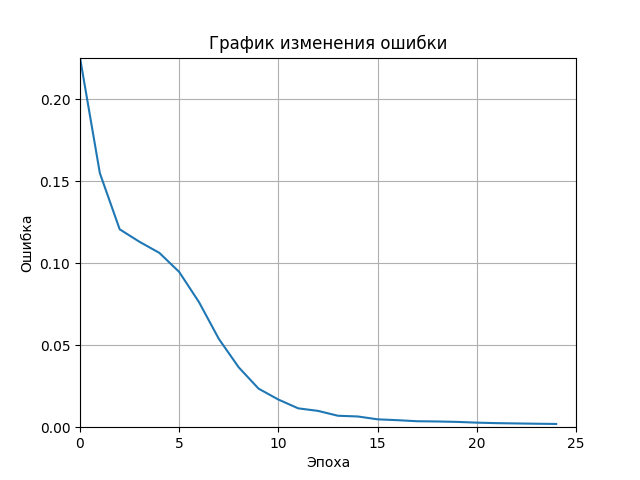
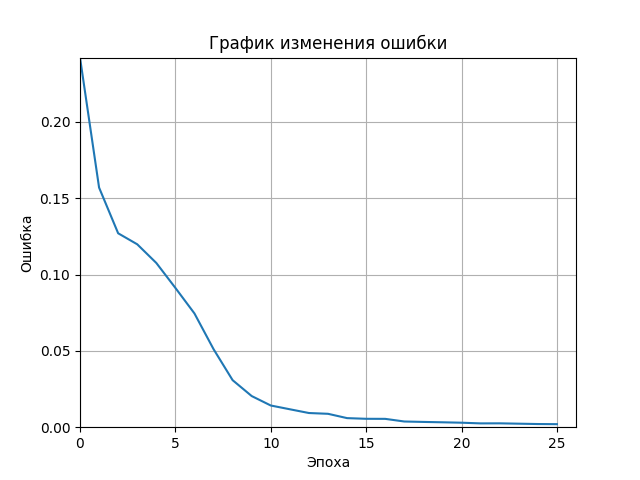
Косметические исправления.

diff --git a/NeuralNet/src/Include/Input.hpp b/NeuralNet/src/Include/Input.hpp
@@ -4,6 +4,6 @@
 
 Net::fmatrix weights =
 {
-	{0.0866762, -0.00792785, -0.0975798, -0.0785434, 0.0160742, -0.0477219, -0.0511323, 0.0902031, 0.0732728, -0.0513772, 0.0865228, -0.0515019, -0.0671272, -0.0505245, -0.03316, 0.0875438, -0.0255866, -0.00457727, 0.0251436, 0.138647, 0.0476982, -0.0274717, 0.111498, -0.0635629, -0.0490845, 0.0461052, 0.0240554, -0.0597974, 0.00565295, 0.0991803, 0.0651181, 0.0451909, -0.00830246, 0.0953912, -0.0143226, 0.022315, -0.00720639, 0.0811833, 0.0145478, 0.0789655, 0.104592, 0.0335671, 0.0293116, 0.0521393, 0.0202352, 0.00277552, -0.0537189, -0.0854954, 0.0201207, -0.00382206, 0.0109879, 0.0830101, 0.064561, -0.0787919, 0.0825191, 0.0934809, 0.0856944, -0.0493944, -0.0398271, -0.0754562, -0.0422659, 0.0502075, 0.0213038, 0.0357727, -0.0506139, 0.0799693, -0.0670098, -0.00721193, 0.116596, -0.045856, -0.00376268, -0.0820758, 0.0576883, -0.0368344, 0.0679203, 0.0801333, 0.012721, 0.055573, 0.0256795, 0.0409697, 0.056959, 0.0268674, 0.0796875, 0.0493065, -0.0447279, 0.0729896, -0.083911, -0.0589574, -0.0485805, 0.0105328, 0.0375815, -0.0610947, 0.0258591, 0.0594313, 0.00804859, -0.0473766, -0.0346565, 0.0932167, 0.116688, 0.0295391, 0.0466345, 0.0622039, 0.0224272, -0.0247162, -0.0665249, 0.0755896, -0.0323697, 0.0615843, -0.0749183, -0.00907565, 0.0507233, -0.0267185, -0.083273, -0.0344248, 0.10249, -0.0197111, -0.0819625, 0.0132332, -0.0441817, -0.0236327, 0.0523245, -0.0697749, 0.0188519, -0.0841022, 0.0791236, 0.0461455, 0.100218, -0.0478836, 0.114456, 0.00785827, 0.0162361, 0.0861071, -0.0360857, 0.0840756, 0.0782947, 0.060194, 0.00863855, -0.0179264, -0.0570995, -0.099412, -0.00849955, -0.0182204, 0.0963028, 0.0507728, -0.00210707, -0.00969862, 0.0857039, 0.00579364, -0.0529255, 0.00955859, 0.0161255, -0.0624801, 0.0167603, -0.00942724, 0.0642182, 0.0147564, 0.0449116, -0.072375, -0.0908131, -0.0548277, 0.0394569, 0.200323, 0.245159, 0.0595522, -0.00492004, 0.310799, 0.0839039, -0.129397, -0.358275, -0.242682, -0.314606, 0.285241, 0.336216, -0.780856, -0.292478, -0.209469, -0.234239, 0.109813, -0.18192, -0.640744, -0.0312026, 0.355739, 0.0821964, 0.037466, -0.232616, 0.361776, 0.0250198, -0.0130411, -0.115913, -0.38537, -0.32885, 0.397267, 0.138317, 0.222736, -0.33541, -0.299616, 0.060136, 0.27347, -0.110616, 0.097282, 0.0412095, -0.0972402, -0.124272, 0.0296733, -0.0624154, 0.0441652, -0.180363, -0.0943999, 0.0725166, -0.106188, -0.0226847, 0.0806647, -0.0810194, 0.0324514, 0.0189664, 0.112137, 0.0201486, -0.000465235, -0.126545, 0.0680508, -0.133577, 0.377623, 0.186577, 0.0722652, -0.165512, 0.347777, 0.0671499, -0.104445, -0.125526, -0.305234, -0.309068, 0.421405, 0.0446779, 0.263639, -0.321436, -0.319335, -0.00294748, 0.233784, -0.162893, 0.130506, -0.0159853, 0.0959856, 0.315265, -0.01483, 0.0538099, 0.119669, 0.0744082, -0.193736, -0.284994, -0.113708, -0.154729, 0.225343, 0.0746168, -0.56286, -0.260469, -0.193892, -0.158052, -0.0138222, -0.217488, -0.450156, 0.0433775, -0.0139982, -0.116579, -0.000670475, -0.0624342, -0.0089378, 0.0271549, -0.0665824, 0.058576, 0.0599151, -0.0523221, -0.0832575, -0.070407, 0.0482867, 0.0144472, -0.0624573, 0.112721, -0.0612021, 0.0504372, 0.208765, -0.0808062, 0.097698, 0.0466683, -0.0745585, 0.0632179, -0.052584, 0.0521898, 0.0168246, -0.0441655, -0.101137, 0.0332857, 0.0610734, -0.0283959, -0.0142506, -0.0188386, 0.0122897, -0.00513667, -0.0267948, 0.0463119, -0.049509, 0.0143905, 0.34652, 0.145474, 0.107855, -0.124081, 0.466734, -0.0151589, -0.192878, -0.19264, -0.419318, -0.31571, 0.554748, 0.104842, 0.134813, -0.237051, -0.413426, 0.130379, 0.204471, -0.204773, 0.00720854, -0.0103811, -0.307902, -0.30554, -0.234561, 0.272253, -0.446316, -0.103694, 0.0417102, 0.28718, 0.31367, 0.317484, -0.468452, -0.117955, -0.151594, 0.208796, 0.183265, -0.131849, -0.259221, -0.0533793, -0.14924, 0.0366489, 0.0631523, 0.0663916, 0.103864, -0.0351811, -0.0813283, 0.0819092, -0.0191263, 0.0592765, 0.0618519, 0.0750178, -0.0270211, 0.051832, 0.126197, 0.0764747, -0.0533364, 0.0117782, 0.0149116, -0.0727805, -0.00418814, -0.0571531, -0.338476, -0.126004, -0.0634394, 0.0728777, -0.349782, -0.0297775, -0.0258293, 0.317328, 0.158301, 0.180285, -0.245945, -0.0673536, -0.114239, 0.252295, 0.254014, -0.158578, -0.270307, -0.0549956, -0.137097, -0.11788, 0.254077, 0.0160952, 0.0396871, -0.121968, 0.396145, -0.130818, -0.0114062, -0.183111, -0.498797, -0.328383, 0.378602, -0.0748486, 0.395042, -0.099146, -0.345063, 0.0640081, 0.294254, -0.0454818, 0.231146, -0.0992704, 0.0994148, -0.0604865, 0.081409, 0.0666357, 0.0431528, -0.0274682, -0.0413835, 0.15488, 0.0103303, 0.0260499, -0.0155979, -0.0304333, 0.280484, -0.00535117, 0.0161112, 0.121853, 0.0432697, -0.0681849, 0.013949, 0.0717684, -0.0851833, -0.0548379, -0.0557472, -0.0527175, -0.107918, -0.0443159, -0.0570589, 0.0698844, 0.0141833, 0.0456437, -0.0829064, -0.00301583, 0.0563926, -0.034678, -0.0661171, 0.0364838, -0.0246512, 0.0559356, 0.00838378, -0.0296386, 0.024582, -0.0831316, -0.00318284, 0.0629536, 0.0325313, -0.0568268, -0.0568231, 0.0181012, -0.0868527, -0.0378821, 0.122524, -0.0466757, 0.189618, 0.0911208, 0.0197008, -0.0927871, 0.063142, -0.033046, 0.116082, 0.0161494, -0.0444934, -0.0587366, 0.0287475, 0.00324071, 0.0190304, -0.0851523, -0.0556648, 0.138106, -0.147097, -0.0106811, 0.0201928, -0.0780301, 0.189746, -0.0343848, -0.0369955, 0.0805828, 0.103816, -0.0465659, 0.328869, 0.0959667, 0.083556, -0.0930927, -0.0776776, 0.0162021, -0.0419935, -0.0442106, 0.0255548, 0.0984535, -0.0334093, -0.0296876, 0.0407326, 0.0718025, 0.122183, -0.0423188, 0.0993623, 0.0568657, 0.0786579, 0.105339, 0.0891558, -0.100526, 0.128562, 0.0557595, 0.11108, -0.0567332, 0.165228, 0.0146146, -0.0153412, -0.0238636, -0.00851064, -0.0090347, 0.109116, 0.100901, 0.0580763, -0.0355179, -0.0821143, -0.0840642, 0.0960814, -0.00199039, 0.0744989, 0.0166823, 0.000371878, 0.00628812, 0.0683477, 0.0691937, -0.074758, -0.0768097, -0.0482982, -0.0976552, -0.0272905, -0.094928, -4.29394e-05, 0.189285, 0.0270015, -0.0505899, -0.00631259, -0.0547526, -0.0677529, -0.0515933, -0.254701, -0.0494364, -0.0962193, 0.0190688, -0.0804981, 0.0328275, -0.000813957, -0.0849077, -0.0205391, 0.0303751, -0.0172585, -0.0236969, 0.0441721, 0.059234, -0.0538939, -0.045883, -0.0599186, -0.00689574, 0.0862057, 0.0024758, 0.0038345, 0.0832285, -0.280272, -0.241041, -0.181165, 0.269656, -0.484917, -0.175155, 0.0910164, 0.371059, 0.406219, 0.354156, -0.431547, 0.00766353, -0.134413, 0.27424, 0.399771, -0.197517, -0.306113, 0.004072, 0.00867412, 0.0199531, 0.225257, 0.0209763, 0.043999, -0.144991, 0.41976, 0.0150677, -0.12359, -0.134827, -0.292227, -0.196114, 0.451122, 0.0258337, 0.251425, -0.280148, -0.307493, 0.102482, 0.263046, -0.104795, 0.0212229, 0.0612849, 0.0166097, -0.00700271, 0.00601172, 0.0242269, -0.0135868, 0.0651669, -0.0195271, -0.0637281, -0.0546374, -0.116381, 0.0393089, 0.0952291, -0.0750392, 0.0791238, -0.0684623, 0.0883473, -0.046275, -0.078986, -0.0919576, -0.0688895, -0.0136018, -0.0132156, 0.0783353, 0.0804111, -0.0239043, 0.0768341, -0.114302, -0.132251, 0.0588675, -0.0111649, -0.0412612, 0.0492334, -0.240385, -0.029122, -0.00567707, 0.00800778, 0.000446689, -0.0381732, -0.167505, -0.00218123, -0.028044, 0.0532026, 0.0292836, 0.0605958, 0.0351693, -0.00317725, 0.0804416, 0.0306914, 0.0346778, 0.0121271, 0.103841, 0.0962415, 0.0675376, 0.0174673, -0.0114598, 0.028401, 0.0694978, 0.0906741, 0.0322072, -0.108385, 0.263928, 0.22585, 0.14027, -0.160481, 0.449451, 0.0717183, -0.150037, -0.168828, -0.418938, -0.445889, 0.559501, 0.145467, 0.249546, -0.339952, -0.412164, 0.114581, 0.156466, -0.0925762, 0.01798, 0.013498, -0.214736, -0.267301, -0.117466, 0.147852, -0.229929, -0.0765677, 0.0242622, 0.24991, 0.272304, 0.179639, -0.288247, -0.065683, -0.159524, 0.29826, 0.339676, -0.052415, -0.184851, 0.125013, -0.100547, 0.00359759, -0.279628, -0.262242, -0.187061, 0.227909, -0.233391, 0.0209457, 0.00632158, 0.213359, 0.3635, 0.169002, -0.350023, -0.0516415, -0.159296, 0.241094, 0.324786, -0.16566, -0.258804, 0.0416696, -0.0955344, 0.0114595, -0.0102559, 0.164928, -0.23007, 0.205724, -0.0725772, 0.117682, -0.148777, -0.14334, 0.126248, 0.0409057, -0.222946, 0.256628, -0.989321, 0.00450087, 0.0779769, -0.361581, -0.0967735, -0.0906457, -0.744176, 0.0513568, 0.0544713, -0.157035, -0.0955443, 0.0717355, 0.0627143, -0.122863, -0.0574966, -0.0396214, -0.0276628, -0.00141836, 0.0579931, 0.157395, -0.105629, -0.0883119, 0.0192949, -0.130873, -0.04574, -0.142888, -0.0422962, -0.000969142, -0.0819604, -0.229653, -0.0290105, -0.00811747, -0.134134, -0.206367, -0.0859013, 0.200654, -0.0140087, 0.00836773, -0.070393, -0.0773518, 0.18416, -0.0128996, 0.0439267, -0.0616415, -0.10911, -0.0706251, 0.0620099, -0.0764479, 0.0424315, -0.150828, -0.0698105, 0.0893981, 0.0102445, -0.0193152, 0.0154961, 0.0816621, 0.00638319, 0.0796076, -0.0798368, -0.0271105, 0.0580848, -0.0751012, -0.139857, -0.104469, -0.109328, -0.0719705, 0.16906, 0.0313416, -0.0674978, 0.246565, -0.160813, 0.191738, -0.0720227, -0.0252685, -0.227734, -0.150018, 0.0845691, -0.000400662, -0.159813, 0.359248, -1.00803, -0.173527, 0.0680214, -0.463127, -0.141467, -0.19908, -0.621725, -0.0572689, -0.162641, -0.153493, -0.0400367, 0.25607, -0.328826, -0.00412786, -0.0954528, 0.199211, 0.213603, 0.192696, -0.40451, -0.0377454, -0.230142, 0.192153, 0.248012, -0.149682, -0.149614, 0.0243793, -0.148292, 0.00618, -0.0141079, -0.0440853, -0.0311233, 0.0797928, -0.0890095, 0.00788859, 0.0770159, 0.127303, 0.122526, 0.0491964, 0.00801647, 0.0369554, 0.105538, -0.0240856, -0.00216016, -0.046672, -0.0748014, -0.0715021, 0.00149377, -0.0118226, 0.0950926, -0.0211248, 0.00929722, -0.00359979, 0.0242053, -0.0623014, 0.0579703, -0.0890606, -0.023883, -0.107247, 0.0697699, -0.0485313, 0.099436, 0.0514092, -0.0823213, -0.0615702, 0.0241285, -0.0025527, -0.132429, 0.0074238, -0.0911437, 0.00337884, -0.0267075, 0.00459531, 0.0561586, 0.00524737, 0.0355186, -0.0924041, 0.00344977, 0.0244889, -0.0513179, -0.0668138, 0.0479642, 0.00571541, -0.0111825, -0.0515851, -0.067993, -0.0149567, 0.0766428, 0.0101315, 0.0859245, -0.029065, 0.124598, -0.0279419, 0.0708129, -0.0935073, 0.0214813, -0.0997126, -0.00887444, -0.0387301, 0.00602779, 0.0872305, -0.0111459, -0.018855, -0.0340624, -0.0598534, -0.0373374, 0.112735, 0.0348348, 0.042864, 0.052759, -0.0457831, 0.00251609, 0.0799351, -0.0814976, 0.0514252, 0.0765519, 0.144912, -0.099681, 0.0106884, 0.0580893, -0.11888, 0.119296, -0.0494535, -0.00589789, -0.0295912, -0.0551733, -0.0818144, 0.185215, 0.0628457, 0.0296838, -0.146031, 0.0529039, -0.114435, -0.0634056, -0.108948, -0.00784633, 0.107435, -0.0400479, 0.12358, -0.0147707, -0.0870452, -0.0432346, 0.0695994, -0.0747104, -0.00227657, -0.0481893, 0.0467584, 0.0792283, -0.0152442, -0.101231, 0.0761193, 0.0482514, -0.0610503, 0.0439288, -0.0646631, -0.0698863, -0.0822562, 0.0258928, 0.0126443, -0.0306599, -0.0192794, -0.0320676, 0.0347701, -0.0366332, 0.0460992, -0.0665582, -0.0807431, 0.0594551},
-	{-0.97772, 0.150457, 0.188702, -0.984914, 1.31785, -0.964465, -0.950664, 1.08319, -0.936736, 0.431719, -0.612681, -0.370004, -1.95053, 0.436037, 0.898874, -0.306106, 1.50742, -1.7451, -1.04491, 0.658774, -0.155196, 0.640255, -1.09552, 0.194721, 0.393104, -1.93592, 1.02782, -0.875737, -1.15426, 1.24777, -0.615074, -1.17051, 1.10548, -0.530323, 1.70512, -1.72434, -1.98707, 1.54432, -0.0384024, 4.386, -3.87168, -0.66629, -0.155006, -1.38667, 0.976861, -0.732154, -1.1647, 1.37602, 1.54251, -1.51473, -0.402877, 0.116092, 0.26691, -0.907588, 0.562026, -1.05062, 0.236724, 3.46224, -3.55669, -0.157687}
+	{-0.111449f, -0.104262f, 0.0485458f, 0.105162f, -0.0144495f, -0.178764f, -0.00148932f, 0.012935f, -0.13439f, 0.0301735f, 0.0393255f, 0.0729633f, 0.0395205f, -0.0245326f, 0.00301001f, -0.0561424f, -0.102005f, -0.0471755f, 0.0417359f, 0.0799684f, 0.090487f, -0.0168627f, 0.0520941f, 0.00354638f, 0.0179132f, -0.213636f, -0.101025f, -0.0977599f, 0.0604194f, 0.0327205f, 0.083027f, 0.0918725f, -0.0968816f, -0.0313614f, 0.0435667f, 0.0157916f, -0.00319856f, -0.0293213f, -0.0852096f, -0.0107657f, 0.0242623f, -0.0982731f, -0.0826619f, -0.00680408f, 0.0090389f, -0.122994f, 0.0558606f, -0.0609422f, -0.073335f, -0.0532987f, 0.0415144f, 0.072836f, -0.0454425f, -0.0377134f, -0.0299301f, 0.0642054f, -0.0348428f, 0.0221512f, -0.0475047f, -0.138583f, -0.0186665f, -0.0801753f, -0.00500171f, 0.00217925f, -0.0891441f, -0.0480437f, -0.0658643f, 0.0702659f, -0.00216884f, -0.000793206f, 0.106099f, 0.00840554f, 0.00957182f, -0.115139f, 0.0693469f, -0.113261f, 0.0549788f, -0.0515216f, 0.0613042f, 0.00244404f, 0.0579076f, 0.0576312f, 0.041257f, 0.0467689f, 0.101573f, -0.0760096f, 0.0893623f, 0.0189349f, -0.0941159f, 0.0539453f, 0.0567893f, 0.0644105f, 0.0929564f, 0.120505f, -0.0145018f, 0.0983496f, -0.0493577f, 0.0112787f, -0.0422723f, -0.00633382f, -0.0684706f, 0.0991064f, -0.0301065f, -0.0926114f, 0.0258043f, 0.0628815f, -0.063842f, 0.0962259f, -0.089121f, 0.0430828f, 0.0326072f, 0.0300014f, 0.0737385f, -0.0826284f, -0.0603935f, 0.0371096f, 0.10122f, 0.0497115f, -0.0938618f, 0.0688905f, 0.0671341f, -0.0123519f, 0.038454f, -0.0749465f, -0.011563f, -0.107462f, -0.00695864f, -0.0467473f, -0.0158092f, 0.0532656f, 0.0233025f, 0.0217258f, -0.0300419f, 0.0392718f, -0.0250931f, 0.0588921f, 0.02282f, -0.0536865f, -0.0306512f, -0.17202f, -0.0323744f, 0.0757323f, 0.0354366f, 0.022118f, 0.0588762f, 0.0691081f, -0.0165221f, 0.0197479f, 0.0168476f, 0.00958306f, 0.0993066f, 0.0139385f, -0.0445058f, -0.0781099f, 0.0627113f, 0.00866428f, 0.0113672f, 0.0812443f, 0.00428656f, 0.0617755f, 0.0624138f, 0.223194f, -0.4834f, -0.313892f, -0.363208f, 1.10493f, -0.0567849f, -0.0173755f, 0.25085f, -0.241766f, -0.245778f, 0.252137f, -0.00847296f, -0.108672f, -0.252748f, 0.105567f, -0.12878f, -0.140635f, 0.198874f, 0.267833f, 0.387587f, 0.317437f, -0.0956896f, -0.404473f, -0.0890115f, 0.0189732f, -0.0921353f, 0.0995775f, 0.120608f, -0.141902f, 0.106136f, -0.033573f, 0.0595375f, 0.344648f, -0.402279f, 0.216585f, 0.296193f, 0.095396f, 0.0318999f, -0.0401895f, -0.0211342f, 0.0557043f, 0.177265f, -0.113303f, -0.182948f, -0.137307f, -0.154842f, -0.0204184f, -0.00535188f, 0.0155135f, 0.0366941f, -0.0242715f, -0.160678f, -0.0642173f, 0.00954422f, 0.0174386f, -0.0437803f, 0.0377507f, -0.0541637f, -0.270055f, 0.339274f, 0.343521f, -0.0541916f, -0.334676f, -0.143265f, -0.133121f, -0.0738451f, 0.182471f, 0.210878f, -0.240279f, -0.0117703f, 0.100484f, 0.0426092f, 0.285875f, -0.433239f, 0.324128f, 0.104646f, 0.102013f, 0.135958f, 0.0441112f, 0.158104f, 0.0704184f, -0.306297f, -0.263659f, -0.324839f, 0.711043f, -0.154576f, 0.0346172f, 0.195587f, -0.302789f, -0.215893f, 0.193482f, -0.0459872f, -0.0898127f, -0.344527f, 0.15717f, -0.0447592f, -0.135809f, 0.134764f, 0.274123f, -0.0421661f, -0.0646484f, 0.17852f, 0.0303447f, 0.0440433f, -0.202622f, -0.0908219f, -0.0859701f, 0.0402314f, -0.0556147f, 0.038416f, 0.0311642f, 0.0500039f, 0.127524f, 0.0168413f, -0.0504506f, 0.000732487f, 0.0856971f, -0.0755818f, 0.0505467f, 0.0205951f, 0.0592582f, 0.000980233f, -0.0938718f, 0.0751106f, -0.0410607f, -0.0829911f, 0.0063018f, -0.0651363f, 0.0190686f, -0.0521469f, -0.0353852f, -0.0547889f, 0.0366129f, 0.0790082f, 0.0417632f, -0.0528091f, 0.0100005f, -0.0531423f, 0.00501463f, 0.362512f, 0.427195f, -0.000882561f, -0.447111f, -0.061993f, -0.0952108f, -0.136814f, 0.235081f, 0.221895f, -0.269575f, -0.0640357f, 0.0416992f, 0.0417043f, 0.36291f, -0.538185f, 0.308846f, 0.187955f, -0.0600984f, 0.110465f, -0.0887946f, -0.289097f, -0.428925f, 0.234924f, 0.439761f, 0.147007f, -0.010332f, 0.127908f, -0.249667f, -0.273148f, 0.136337f, -0.0669927f, -0.0476188f, -0.216665f, -0.317359f, 0.503426f, -0.298781f, -0.165307f, -0.0523493f, -0.135325f, -0.121834f, 0.0169885f, 0.0997531f, 0.130724f, -0.117876f, 0.0133181f, -0.058558f, 0.0303444f, -0.0334998f, 0.0584242f, 0.00239819f, 0.0854483f, 0.0224162f, -0.0528658f, 0.0726274f, 0.00684461f, -0.0243346f, 0.0326481f, 0.0161534f, -0.00870563f, 0.00498483f, -0.422977f, -0.369575f, 0.295844f, 0.32877f, 0.207191f, -0.198953f, 0.0427586f, -0.112297f, -0.131264f, 0.023431f, -0.0348157f, -0.220288f, -0.181349f, -0.182409f, 0.400029f, -0.238915f, -0.253139f, 0.0197113f, -0.0490958f, -0.256859f, 0.286901f, 0.36949f, 0.118894f, -0.494119f, 0.0279253f, -0.479614f, -0.116238f, 0.0939843f, 0.128678f, -0.141507f, 0.0115519f, -0.0434854f, 0.00255578f, 0.242453f, -0.431133f, 0.158356f, 0.193913f, 0.12628f, 0.0647479f, -0.133957f, -0.0290919f, -0.0454507f, 0.0988093f, -0.0776105f, 0.0607186f, -0.0436293f, 0.0264203f, -0.0657261f, 0.0619484f, 0.0617952f, 0.0833096f, -0.102779f, 0.0970946f, 0.0757999f, -0.0351187f, -0.0467053f, -0.0295227f, 0.0288651f, -0.0935856f, 0.0874458f, 0.0980317f, -0.0113877f, 0.0367231f, 0.0264543f, 0.0874673f, -0.0787763f, -0.101511f, -0.0581058f, -0.00274907f, 0.0283081f, -0.0742238f, -0.00312676f, -0.080557f, 0.0869391f, -0.0546569f, 0.0276362f, -0.0375967f, 0.0505573f, -0.0180003f, 0.00366137f, 0.0672919f, 0.0685285f, 0.171622f, -0.111281f, -0.0553496f, -0.218805f, -0.145848f, -0.132139f, 0.00572158f, -0.00452829f, 0.0111587f, -0.108098f, 0.0234264f, 0.0229276f, -0.0316069f, -0.0802758f, 0.0528264f, -0.0556735f, -0.0453479f, -0.242628f, 0.139645f, -0.00596052f, 0.17028f, -0.0651797f, 0.0660471f, -0.37861f, -0.0194584f, 0.0552199f, -0.0668753f, -0.00014145f, 0.0714796f, -0.120696f, 0.0085702f, 0.0100128f, -0.0217892f, 0.00334991f, 0.0732189f, 0.0312114f, -0.0394766f, -0.00665538f, -0.0736493f, -0.0828535f, -0.0690617f, -0.0367344f, 0.0401577f, -0.148997f, -0.0308043f, 0.0559844f, -0.0134039f, 0.0889911f, 0.0490464f, -0.0176333f, 0.0754078f, -0.0509273f, -0.0110361f, -0.058053f, 0.0261631f, 0.0663363f, -0.0841778f, -0.0486868f, -0.0115274f, 0.0364525f, -0.105101f, -0.0836394f, -0.100511f, 0.0927605f, 0.0723056f, -0.00288484f, -0.0372312f, -0.00152944f, -0.0388301f, 0.0259312f, 0.0654302f, 0.145028f, -0.172094f, 0.107266f, 0.0471512f, -0.0786538f, 0.00448187f, -0.00637526f, -0.09704f, 0.0151088f, 0.0538283f, -0.0322434f, -0.259301f, 0.0991963f, -0.0157465f, -0.00941678f, 0.0591318f, 0.0307829f, -0.174242f, 0.0947397f, -0.0364356f, -0.00372019f, -0.00908916f, 0.0771485f, -0.00535909f, 0.00224181f, 0.0271778f, -0.0928437f, 0.0613494f, -0.0259591f, 0.0520037f, 0.0422872f, 0.04744f, 0.0598081f, 0.0485948f, 0.00682645f, -0.0922756f, 0.0778017f, -0.0206834f, 0.0708112f, 0.0152229f, -0.0325332f, 0.0904912f, -0.09707f, -0.0717104f, -0.0184659f, 0.088923f, -0.0301842f, -0.42707f, -0.511577f, 0.30683f, 0.464564f, 0.236206f, -0.204914f, 0.123214f, -0.249485f, -0.125752f, 0.141508f, -0.128404f, -0.190565f, -0.0981652f, -0.226861f, 0.39164f, -0.352501f, -0.0940275f, -0.000430224f, -0.164692f, -0.261582f, 0.409674f, 0.249194f, -0.0910515f, -0.32713f, -0.081413f, -0.0832597f, -0.0733611f, 0.0276668f, 0.0820252f, -0.0399757f, -0.0644308f, 0.031179f, -0.00416014f, 0.293909f, -0.398209f, 0.312953f, 0.19372f, -0.075426f, 0.0527976f, -0.0152351f, 0.051287f, 0.0200967f, -0.0615814f, 0.0218378f, -0.0872219f, -0.0640248f, -0.0143767f, -0.0814512f, -0.0909181f, -0.0812122f, -0.0837746f, 0.0860463f, -0.0908915f, 0.0169112f, 0.000312318f, 0.000469088f, 0.034367f, -0.0492436f, -0.0324215f, 0.0110269f, 0.0501234f, -0.0779739f, -0.00887619f, -0.0636256f, 0.016094f, 0.00810113f, -0.100084f, -0.00589361f, -0.00164762f, -0.069542f, -0.135216f, 0.10901f, -0.0475204f, -0.0183032f, -0.015791f, -0.0636094f, -0.00229544f, -0.112285f, -0.0726786f, -0.012332f, 0.00663205f, 0.0308958f, -0.0631095f, 0.0441084f, -0.109697f, 0.193932f, -0.0501505f, -0.0286347f, -0.0234768f, 0.0621551f, -0.0279049f, 0.0802575f, 0.0631341f, 0.0440871f, 0.0386822f, -0.0586884f, -0.0883828f, -0.0212404f, -0.0761024f, -0.00413779f, 0.338305f, 0.467925f, -0.0856744f, -0.411198f, -0.118122f, 0.00556302f, -0.0909509f, 0.0987084f, 0.280764f, -0.114517f, 0.0335194f, 0.158249f, 0.108211f, 0.36541f, -0.462996f, 0.28976f, 0.2392f, 0.0683867f, 0.0743802f, -0.0394914f, -0.305049f, -0.309739f, 0.326387f, 0.3907f, -0.0296742f, -0.122303f, 0.00169328f, -0.158601f, -0.219223f, 0.0940356f, -0.103957f, -0.134119f, -0.177084f, -0.27977f, 0.353122f, -0.329641f, -0.0900648f, 0.06538f, -0.039814f, -0.233473f, -0.406754f, -0.418648f, 0.373067f, 0.423048f, 0.0168856f, -0.160178f, 0.0443189f, -0.207716f, -0.0985512f, 0.0237986f, -0.0127928f, -0.0419521f, -0.19245f, -0.225283f, 0.307287f, -0.309007f, -0.260093f, 0.032057f, -0.0313433f, -0.272367f, -0.176493f, -0.224185f, -0.107989f, 0.197104f, -0.464932f, 1.16279f, -0.0878573f, -0.273366f, 0.206953f, -0.183061f, -0.204153f, 0.139725f, -0.2243f, -0.296981f, 0.0330885f, -0.179929f, -0.465314f, -0.230209f, 0.0382148f, 0.113503f, 0.0275112f, -0.00825258f, 0.144384f, 0.0581086f, -0.146892f, 0.189038f, -0.0335357f, -0.100735f, 0.0265321f, -0.0982644f, 0.0221751f, -0.00399722f, -0.10051f, -0.0141961f, 0.0272852f, 0.0113521f, -0.212818f, -0.0105093f, -0.107133f, -0.133311f, -0.0928566f, -0.0518139f, 0.372161f, 0.102666f, 0.128541f, -0.379578f, -0.0568157f, -0.108936f, -0.0162815f, 0.0871587f, -0.112562f, -0.19374f, -0.0945335f, -0.0729818f, 0.159112f, -0.0638385f, 0.0542086f, -0.0491783f, -0.0741493f, -0.238764f, 0.028119f, -0.0125764f, 0.200828f, 0.0965248f, -0.0563668f, -0.181729f, -0.0391906f, 0.00595435f, -0.0493673f, -0.0898287f, -0.028181f, 0.00283429f, -0.0218536f, -0.00891062f, 0.155603f, 0.0164507f, -0.0279622f, -0.0639212f, -0.0390665f, -0.164358f, -0.117446f, -0.186514f, -0.323448f, 0.128313f, -0.497461f, 1.29265f, 0.0046179f, -0.355576f, 0.0827728f, -0.226861f, -0.323996f, 0.0993926f, -0.193016f, -0.356127f, 0.110901f, -0.202012f, -0.410902f, -0.0919187f, 0.0128072f, 0.133046f, -0.259687f, -0.308091f, 0.201823f, 0.376604f, 0.197839f, 0.0304263f, 0.0985909f, -0.154008f, -0.231296f, 0.120813f, -0.125002f, -0.162091f, -0.176046f, -0.151756f, 0.304427f, -0.224105f, -0.154191f, 0.0157351f, -0.0489274f, -0.138523f, -0.0987433f, -0.043547f, 0.0337191f, 0.0105701f, 0.122099f, -0.207285f, 0.0187469f, -0.0366398f, -0.00674879f, 0.104298f, -0.0237397f, -0.152752f, 0.0689441f, -0.0119905f, 0.084889f, -0.122949f, -0.035564f, -0.0523149f, -0.109869f, -0.156154f, 0.0745022f, -0.0524929f, 0.0671648f, 0.0435986f, -0.0299976f, 0.0303526f, -0.0589101f, -0.0905284f, 0.0249759f, 0.0191874f, -0.0581243f, 0.0225087f, -0.0843047f, -0.0275467f, 0.0708822f, -0.0934337f, -0.00691384f, -0.00492246f, -0.0660274f, -0.077582f, -0.00946744f, -0.046397f, 0.077957f, -0.0134171f, 0.0449086f, 0.0210649f, 0.0829269f, -0.0272495f, 0.0154415f, -0.00336679f, 0.0271429f, 0.0350616f, -0.0668686f, -0.0471152f, 0.0659689f, 0.0565812f, 0.125809f, -0.0784638f, -0.0394363f, -0.0348896f, 0.0343199f, -0.0271407f, -0.0715584f, -0.0386266f, -0.0343818f, -0.07128f, 0.0453575f, 0.0932056f, 0.0324893f, 0.0425187f, -0.0914115f, 0.0606206f, -0.0796541f, 0.0287795f, -0.0765426f, 0.0283811f, 0.0618808f, 0.0426039f, 0.079864f, -0.0626111f, -0.0614976f, 0.0132989f, 0.0282517f, -0.0210359f, 0.00912006f, -0.264283f, -0.0425602f, -0.0577415f, 0.0191241f, 0.0464586f, -0.0319274f, 0.0885883f, 0.103197f, 0.034367f, 0.0322811f, -0.0928234f, 0.0749812f, -0.0763401f, -0.0143082f, -0.0876961f, -0.0308839f, -0.113225f, 0.139452f, 0.0796674f, 0.00209976f, -0.103701f, 0.0534013f, -0.067368f, -0.0682777f, 0.0834882f, -0.0423302f, 0.00421054f, -0.00577534f, -0.0385533f, 0.0593211f, 0.025344f, -0.0199724f, 0.0863774f, 0.0580456f, -0.123893f, 0.0501445f, -0.0477125f, -0.0083418f, 0.0830331f, 0.0153984f, -0.0904338f, -0.0869163f, -0.0766294f, 0.0566891f, 0.086843f, 0.039625f, -0.125274f, 0.0673932f, -0.0211258f, 0.0286104f, -0.110511f, 0.0271243f, -0.0313326f, -0.0963359f, -0.104611f},
+	{0.311098f, 0.481175f, -1.29883f, 0.690224f, 0.630086f, -1.55196f, 0.398625f, -2.16684f, 1.23099f, -1.40085f, -1.46577f, 1.90656f, 1.77518f, -2.38991f, 0.316976f, -4.98531f, 4.17186f, -0.170828f, -0.0309009f, -0.804747f, 0.323276f, 0.87185f, -0.89496f, -0.629022f, -1.05367f, 1.00016f, -0.499574f, 0.740098f, -1.7753f, 0.449261f, 1.40987f, -1.53459f, -0.0718758f, -1.48021f, 0.942287f, -0.226384f, 0.634297f, -0.671597f, -0.371912f, 1.43417f, -0.582041f, -1.01261f, -1.24349f, -1.72332f, 1.97614f, 0.516641f, 0.285766f, -1.08051f, 1.82009f, -1.50159f, -0.623464f, 0.415876f, -0.918496f, 0.0453751f, -0.929752f, 0.539902f, -0.223865f, -1.23327f, 1.17801f, -0.513762f}
 };

diff --git a/NeuralNet/src/main.cpp b/NeuralNet/src/main.cpp
@@ -13,7 +13,7 @@ int main()
 	NeuralNet nn(49, 1, 20, 3);
 	Monitoring mon(&nn, "Figures 2.0");  // Объект системы мониторинга
 
-	constexpr size_t max_epochs = 15000;  // Кол-во эпох тренировки
+	constexpr size_t max_epochs = 5000;   // Кол-во эпох тренировки
 	constexpr float  min_error  = 0.002f; // Цель ошибки
 
 	float out_val = 0.0f;		// Ошибка
@@ -78,7 +78,7 @@ int main()
 				{
 					for (size_t k = 0; k < train_sets.second[0].size(); k++)  // Размер вых. слоя
 					{
-						out_val += pow(res[i][k] - train_sets.second[i][k], 2);
+						out_val += (float)pow(res[i][k] - train_sets.second[i][k], 2);
 					}
 				}
 
@@ -127,6 +127,7 @@ int main()
 				std::cout << "\n";
 			}
 
+			workers.clear();
 			workers.push_back(std::async(std::launch::async, &Monitoring::save, &mon));
 			workers.push_back(std::async(std::launch::async, &Monitoring::save_weights, &mon));
 			workers.push_back(std::async(std::launch::async, &Monitoring::save_report, &mon));

diff --git a/NeuralNet/src/Include/NeuralNet.hpp b/NeuralNet/src/Include/NeuralNet.hpp
@@ -14,10 +14,11 @@ class NeuralNet
 public:
 	NeuralNet(size_t I_Layer_size, size_t H_Layer_num, size_t H_Layer_size, size_t O_Layer_size);
 public:
-	void train(const std::vector<float>& inputs, const std::vector<float>& expected);
 	void run(const std::vector<float>& inputs);
-	std::vector<float>& get_result();
+	void train(const std::vector<float>& inputs, const std::vector<float>& expected);
 	void set_weights(const Net::fmatrix& weights);
+	void set_params(float E = 0.7f, float a = 0.3f);
+	std::vector<float>& get_result();
 private:
 	template<class T1, class T2> void create_synapses(Layer<T1>* l1, Layer<T2>* l2);
 	void update_synapse(Synapse* synapse);
@@ -28,8 +29,8 @@ private:
 private:
 	std::vector<float> result;
 	float error;
-	float E = 0.7f;
-	float a = 0.3f;
+	float E;
+	float a;
 private:
 	std::vector<Synapse>* train_synapses = nullptr;
 	std::vector<std::future<void>> workers;

diff --git a/NeuralNet/src/Source/Monitoring.cpp b/NeuralNet/src/Source/Monitoring.cpp
@@ -46,7 +46,7 @@ void Monitoring::save_weights()
 
 	for (size_t i = 0; i < nn->input_layer.synapses.size(); i++)
 	{
-		out << nn->input_layer.synapses[i].weight;
+		out << nn->input_layer.synapses[i].weight << "f";
 
 		if (i != nn->input_layer.synapses.size() - 1)
 		{
@@ -58,13 +58,13 @@ void Monitoring::save_weights()
 		}
 	}
 
-	out << ",\n{";
+	out << ",\n\t{";
 
 	for (size_t i = 0; i < nn->hidden_layers.size(); i++)
 	{
 		for (size_t j = 0; j < nn->hidden_layers[i].synapses.size(); j++)
 		{
-			out << nn->hidden_layers[i].synapses[j].weight;
+			out << nn->hidden_layers[i].synapses[j].weight << "f";
 
 			if (j != nn->hidden_layers[i].synapses.size() - 1)
 			{
